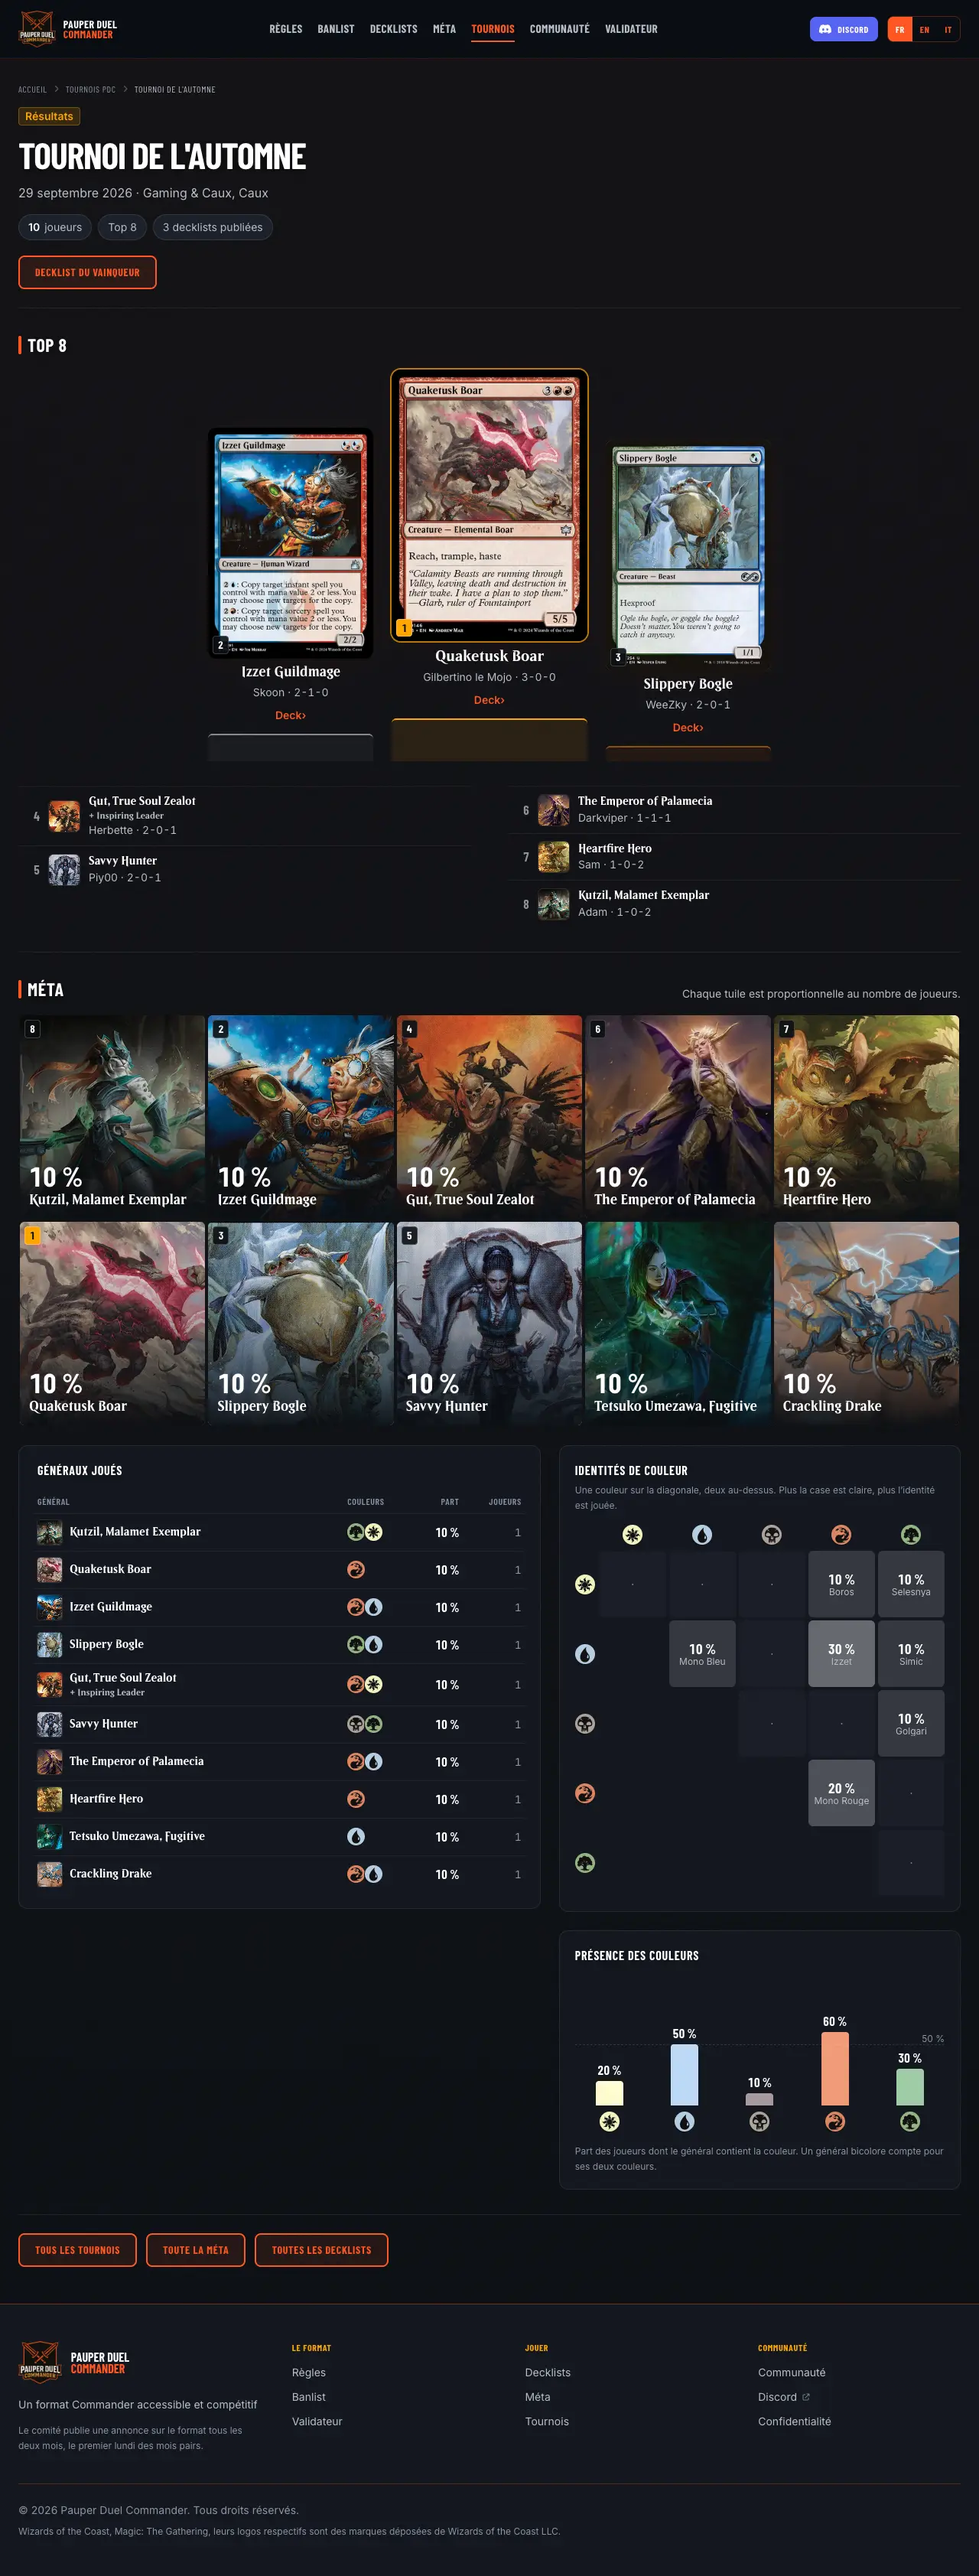
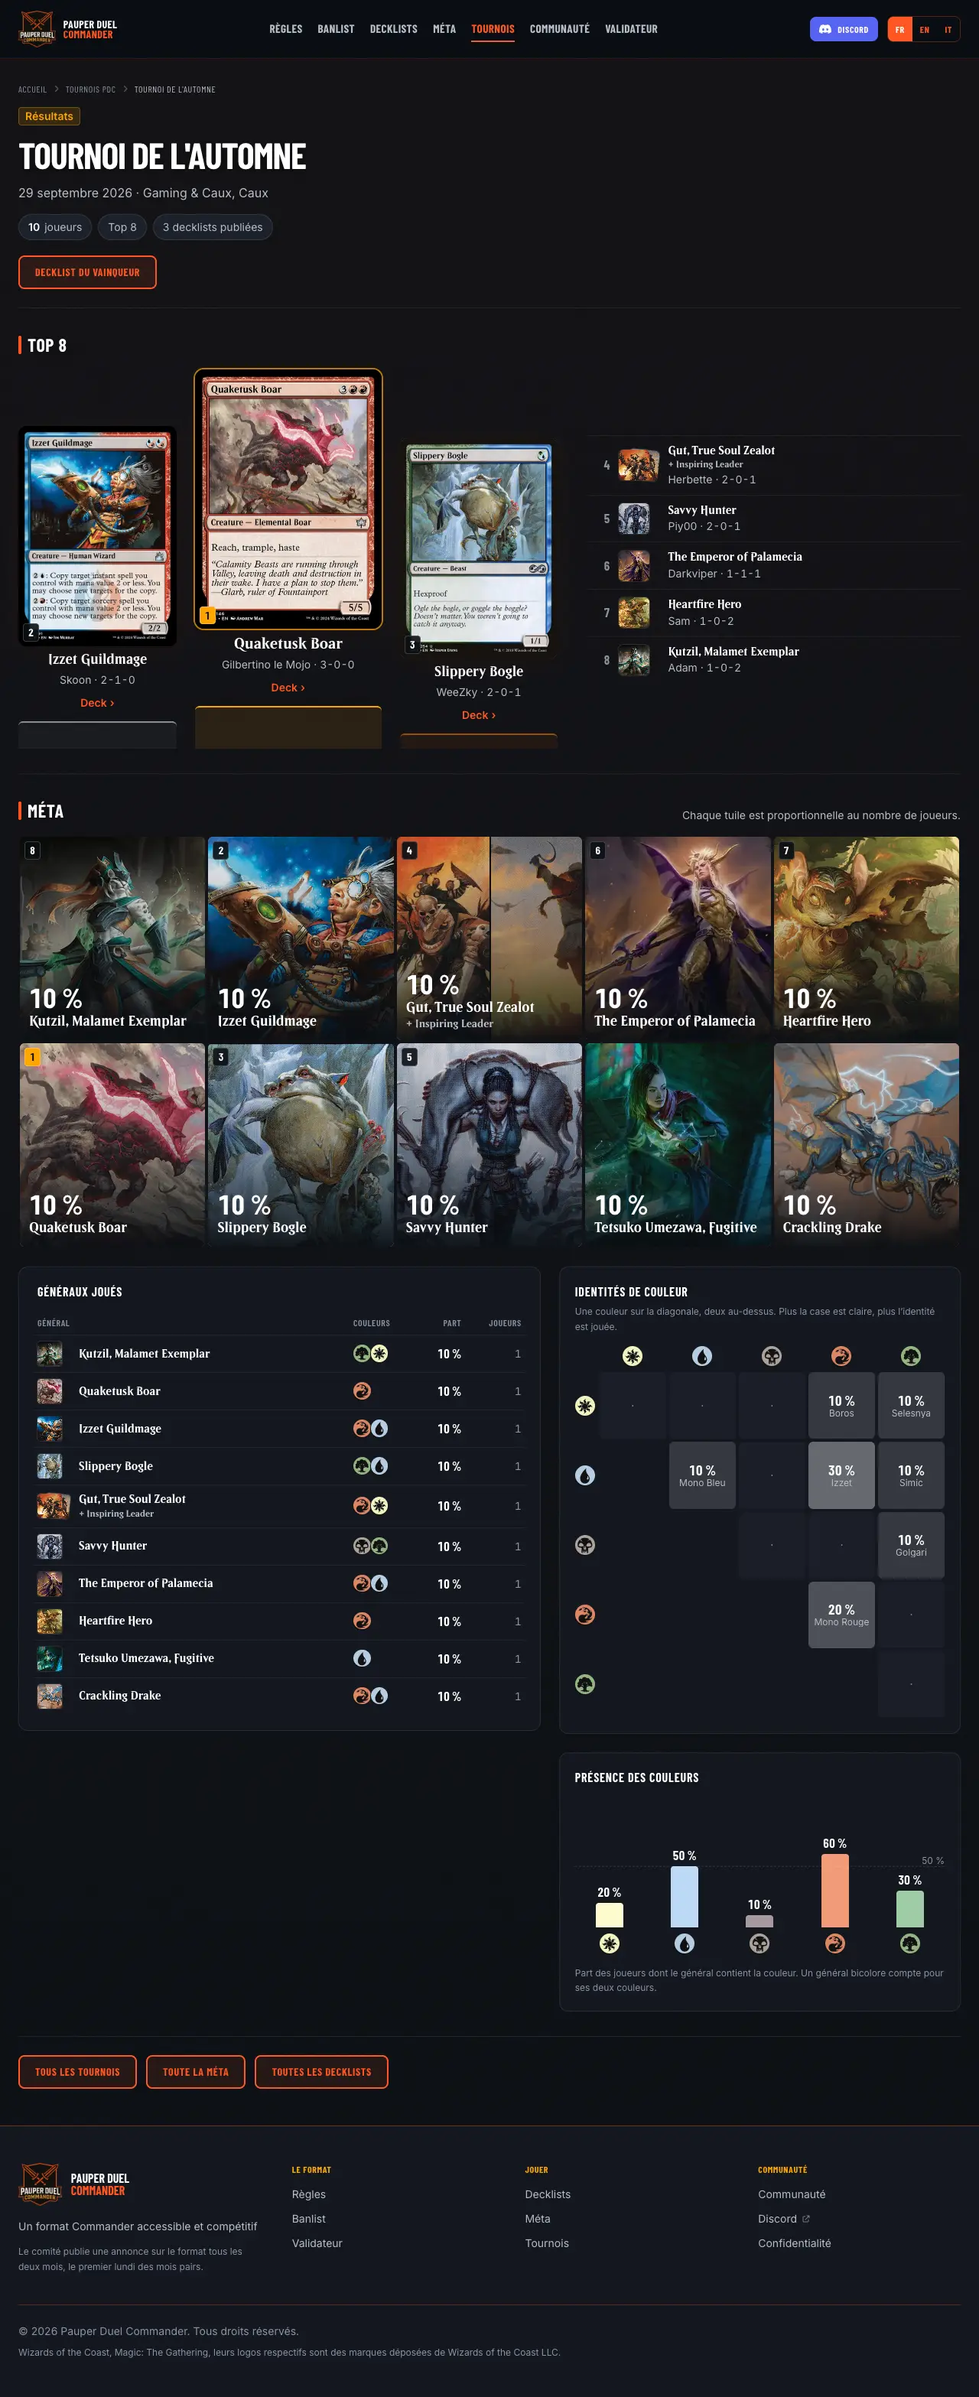
Paires dessinées en paires, places 4 à 8 à côté du podium
- Partenaires et backgrounds : seule la carte principale était dessinée, le
  second nom n'apparaissant qu'en texte. Les deux cartes sont maintenant
  visibles partout : en éventail sur le podium, en deux vignettes superposées
  dans les lignes du top 8 et le tableau, en tuile coupée en deux dans la
  mosaïque (dont le nom accessible cite la paire).
- Les places 4 à 8 passent à côté du podium dès que l'écran le permet.
- Places de la mosaïque d'un tournoi : rattachées à l'entrée du plateau. Le repli
  sur la carte principale ne joue que si une seule entrée la partage, pour que
  deux paires d'un même général n'échangent jamais leurs places.
- Seule la vignette principale déclenche l'aperçu : deux cibles superposées
  laissaient celle du partenaire trop petite (audit « target-size »).

diff --git a/site/src/styles/results.css b/site/src/styles/results.css
@@ -135,6 +135,17 @@
     transform: scale(1.05);
   }
 
+  /* A pair's tile: each card's art on its own half. */
+  .mosaic-tile__img--left {
+    width: 50%;
+  }
+
+  .mosaic-tile__img--right {
+    left: 50%;
+    width: 50%;
+    border-left: 2px solid var(--color-bg-primary);
+  }
+
   /* The tail: one small dimmed scan per commander, a texture under its label.
      Scryfall's small scan (a tenth of an art crop's weight) is the whole card,
      whose illustration runs from 11 to 55 % of its height. At 160 % of the
@@ -169,6 +180,11 @@
     display: none;
   }
 
+  .mosaic-tile__partner {
+    @apply font-beleren text-xs leading-tight text-text-secondary truncate;
+    display: none;
+  }
+
   .mosaic-tile__others {
     @apply mt-1 block text-sm text-text-primary;
   }
@@ -182,6 +198,7 @@
     .mosaic-tile__label { padding: 0.75rem; }
     .mosaic-tile__share { font-size: 2.25rem; }
     .mosaic-tile__name { font-size: 1.125rem; margin-top: 0.25rem; }
+    .mosaic-tile__partner { display: block; font-size: 0.875rem; }
   }
 
   @container (max-width: 2.75rem), (max-height: 2rem) {
@@ -245,8 +262,24 @@
   }
 
   /* Gold is merit: the winner, and only the winner. */
-  .podium__step--1 .tile-face {
+  .podium__step--1 .podium__main {
     @apply ring-2 ring-magic-gold/70;
+  }
+
+  /* A pair: the main card in front, its partner or background fanned behind,
+     as on the decklist page. */
+  .podium__card--pair {
+    @apply relative pr-[12%] pt-[4%];
+  }
+
+  .podium__card--pair .podium__main {
+    @apply z-[1];
+    transform: rotate(-2deg);
+  }
+
+  .podium__partner {
+    @apply absolute top-0 right-0 w-[88%];
+    transform: rotate(5deg);
   }
 
   .podium__name {
@@ -258,7 +291,7 @@
   }
 
   .podium__deck {
-    @apply inline-flex items-center min-h-8 text-sm font-semibold text-brand-orange hover:text-brand-orange-light transition-colors;
+    @apply inline-flex items-center gap-1 min-h-8 text-sm font-semibold text-brand-orange hover:text-brand-orange-light transition-colors;
   }
 
   /* The step it stands on, as high as the place is good. */
@@ -270,8 +303,47 @@
   .podium__step--2 .podium__base { @apply h-6 sm:h-9 border-slate-300/60 bg-slate-300/5; }
   .podium__step--3 .podium__base { @apply h-3 sm:h-5 border-amber-600/60 bg-amber-700/10; }
 
+  .top8--split {
+    @apply lg:grid lg:grid-cols-[minmax(0,1.45fr)_minmax(0,1fr)] lg:gap-10 lg:items-center;
+  }
+
   .standings {
-    @apply mt-8 lg:columns-2 lg:gap-x-12;
+    @apply mt-8 md:columns-2 md:gap-x-10 lg:mt-0 lg:columns-1;
+  }
+
+  /* A row's thumbnail: one art, or a pair's two, the partner behind. A single
+     card keeps the pair's width, so the names stay aligned. Only the main card
+     previews on hover: two overlapping triggers would leave the partner's a
+     sliver too small to hit. */
+  .pair-thumb {
+    @apply relative block flex-shrink-0 w-[3.25rem] h-10;
+  }
+
+  .pair-thumb__main,
+  .pair-thumb__partner {
+    @apply absolute top-0 left-0 block w-10 h-10 overflow-hidden rounded-md ring-1 ring-white/10 bg-bg-tertiary;
+  }
+
+  .pair-thumb__partner {
+    left: 0.75rem;
+    transform: rotate(6deg);
+  }
+
+  .pair-thumb img {
+    @apply block w-full h-full object-cover;
+  }
+
+  .pair-thumb--sm {
+    @apply w-[2.75rem] h-8;
+  }
+
+  .pair-thumb--sm .pair-thumb__main,
+  .pair-thumb--sm .pair-thumb__partner {
+    @apply w-8 h-8 rounded;
+  }
+
+  .pair-thumb--sm .pair-thumb__partner {
+    left: 0.625rem;
   }
 
   .standing {

diff --git a/site/src/lib/meta.ts b/site/src/lib/meta.ts
@@ -35,6 +35,9 @@ export interface CommanderStat {
   cardImage: string | null;
   /** Scryfall's small scan, for the mosaic's smallest tiles. */
   thumb: string | null;
+  /** The partner's or background's art crop and card, drawn beside the main card. */
+  partnerImage: string | null;
+  partnerCardImage: string | null;
   colors: string[];
   ciKey: string;
   isBanned: boolean;
@@ -220,6 +223,8 @@ function aggregate(
       image: mainCard ? getCardImage(mainCard, 'art_crop') : null,
       cardImage: mainCard ? getCardImage(mainCard, 'normal') : null,
       thumb: mainCard ? getCardImage(mainCard, 'small') : null,
+      partnerImage: partnerCard ? getCardImage(partnerCard, 'art_crop') : null,
+      partnerCardImage: partnerCard ? getCardImage(partnerCard, 'normal') : null,
       colors,
       ciKey,
       isBanned: parts.some(p => banned.has(p.toLowerCase())),

diff --git a/CLAUDE.md b/CLAUDE.md
@@ -307,8 +307,13 @@ réencodées, pas des sources :
   (`lg:hidden` restait sans effet).
 - Le top 8 d'un tournoi est un podium (`Top8`) : les trois premiers en cartes,
   dans l'ordre des places dans le balisage et dessinés 2-1-3 par CSS, puis les
-  places suivantes en lignes compactes. Pas de mosaïque ici : un top 8 est un
-  classement, pas une part. Styles dans `results.css` : un élément dont ces
+  places suivantes en lignes compactes, à côté du podium quand l'écran le
+  permet. Pas de mosaïque ici : un top 8 est un classement, pas une part.
+- Une paire (partenaires, général et background) montre ses deux cartes partout :
+  en éventail sur le podium, deux vignettes superposées dans les lignes et le
+  tableau (`pair-thumb`, seule la principale déclenche l'aperçu), une tuile
+  coupée en deux dans la mosaïque. `CommanderStat` et `Top8Entry` portent
+  `partnerImage` / `partnerCardImage`. Styles dans `results.css` : un élément dont ces
   règles fixent la mise en page n'en reçoit pas d'un utilitaire `flex`/`grid`,
   qui l'emporterait.
 - Page méta : la mosaïque (`MetaMosaic`, treemap de `lib/treemap.ts`, contrôle
